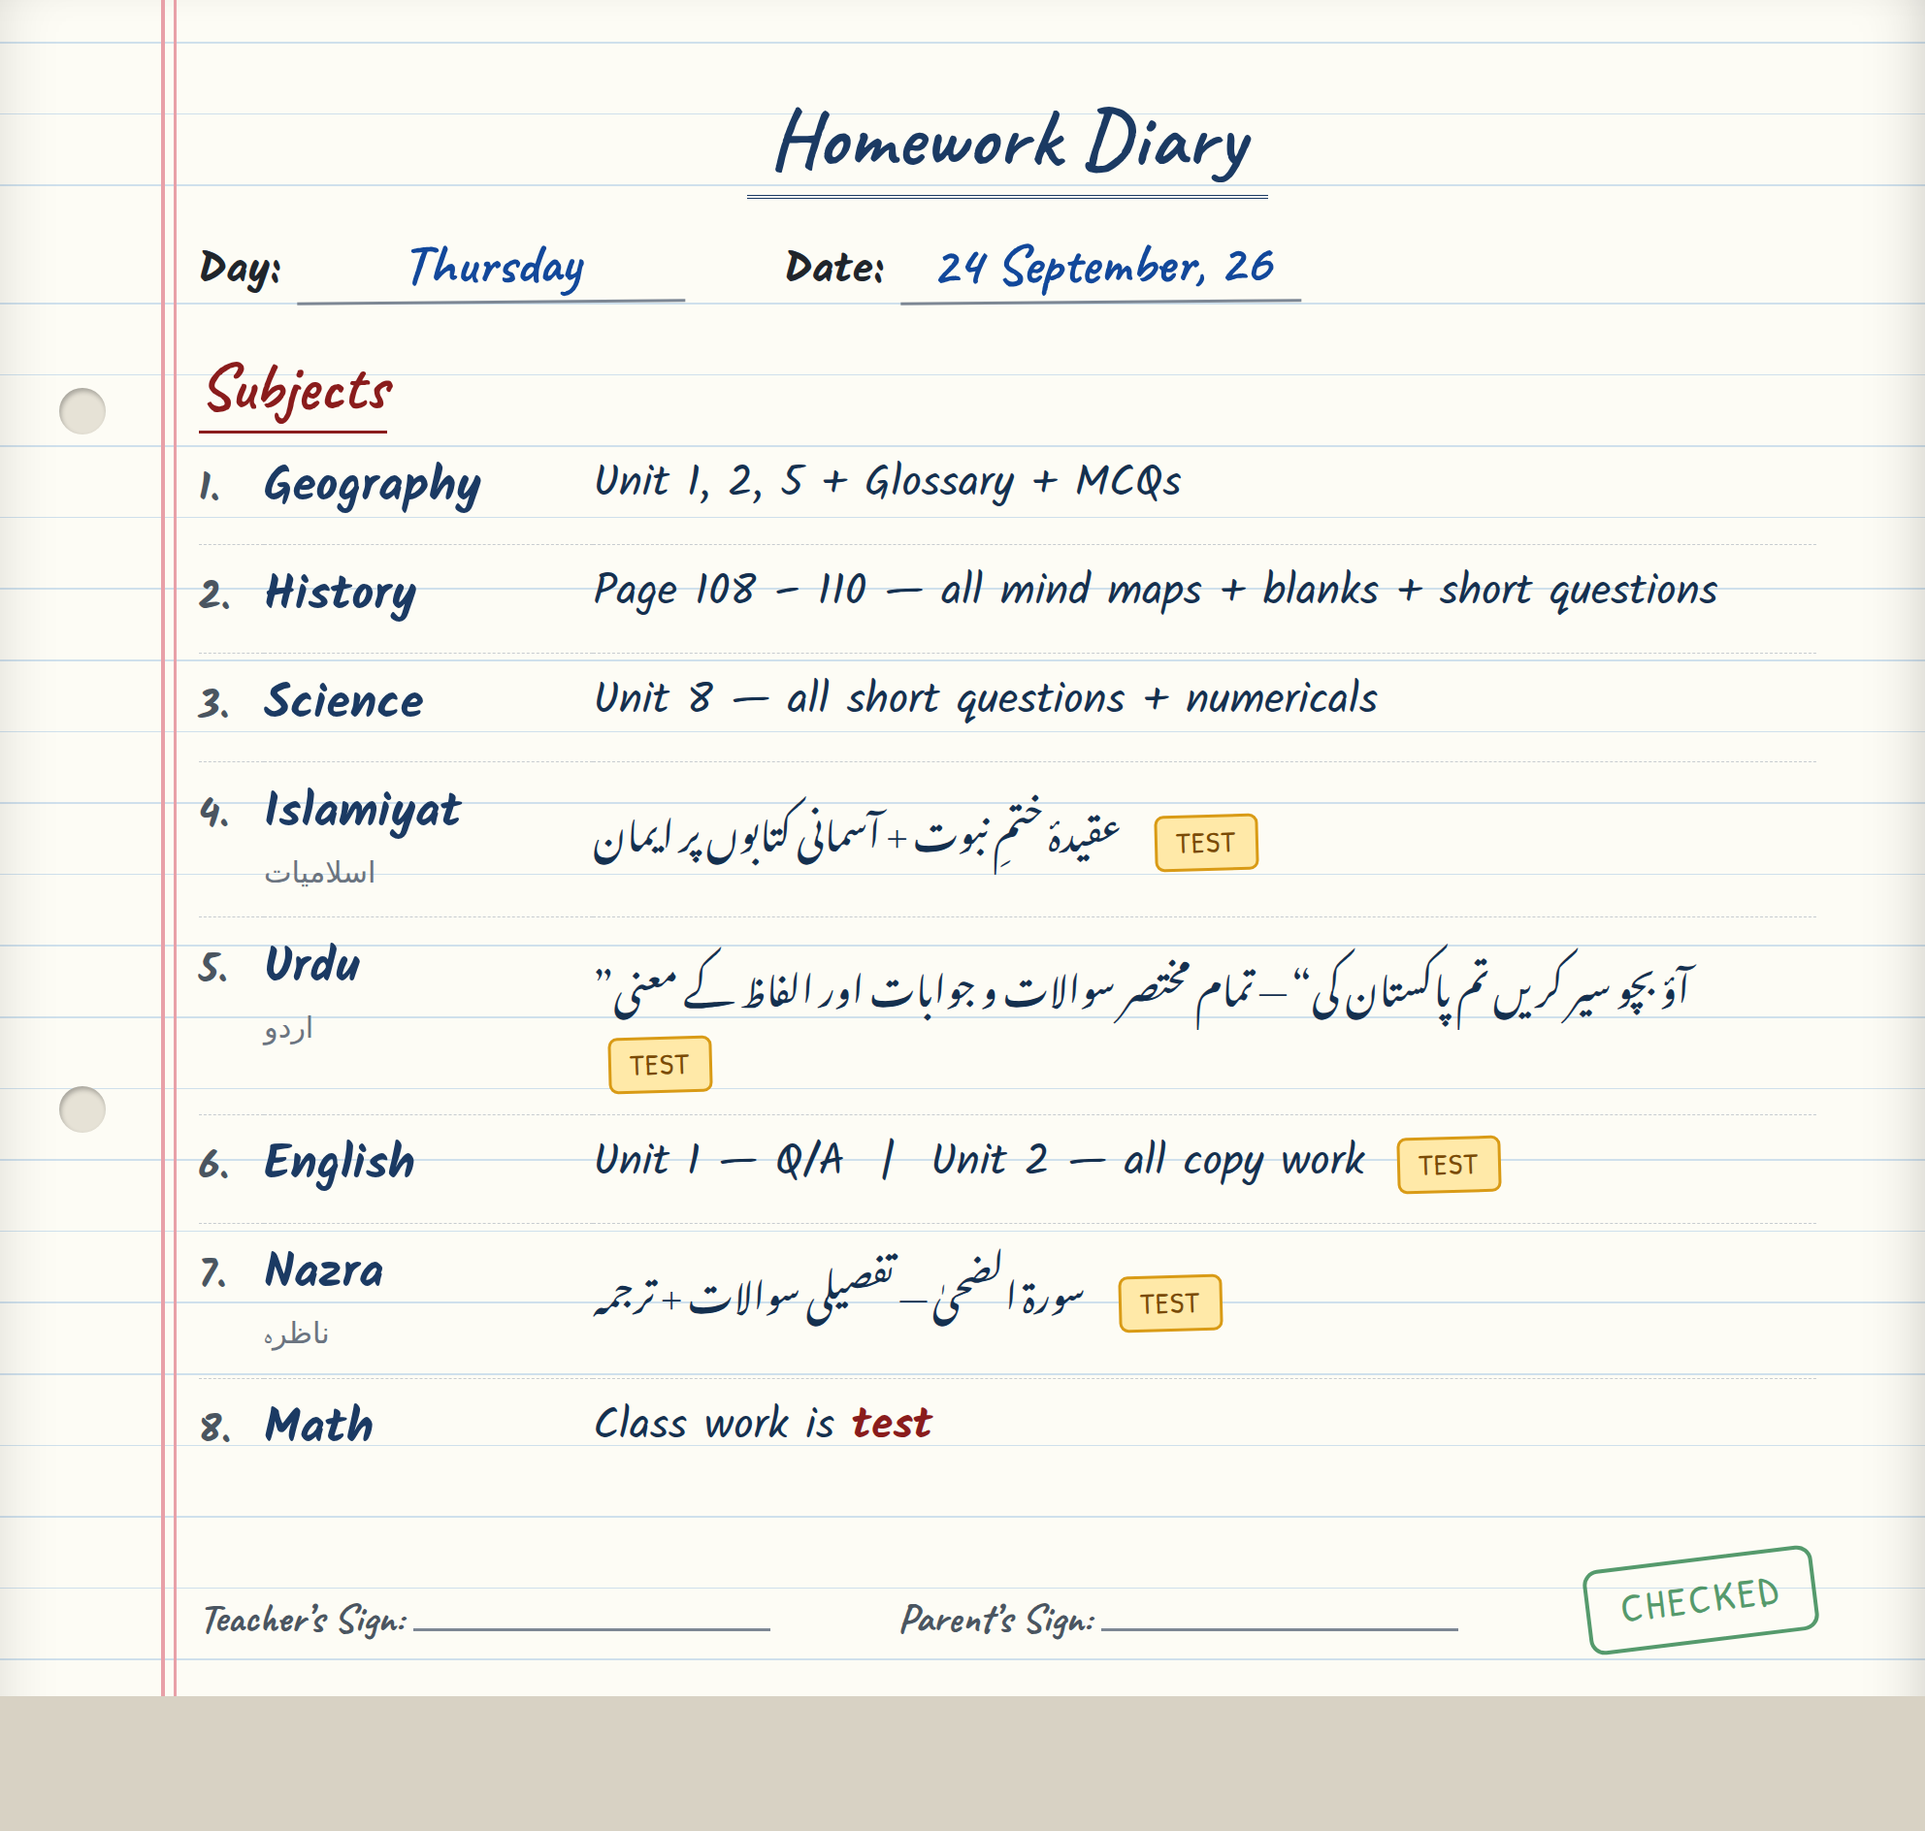
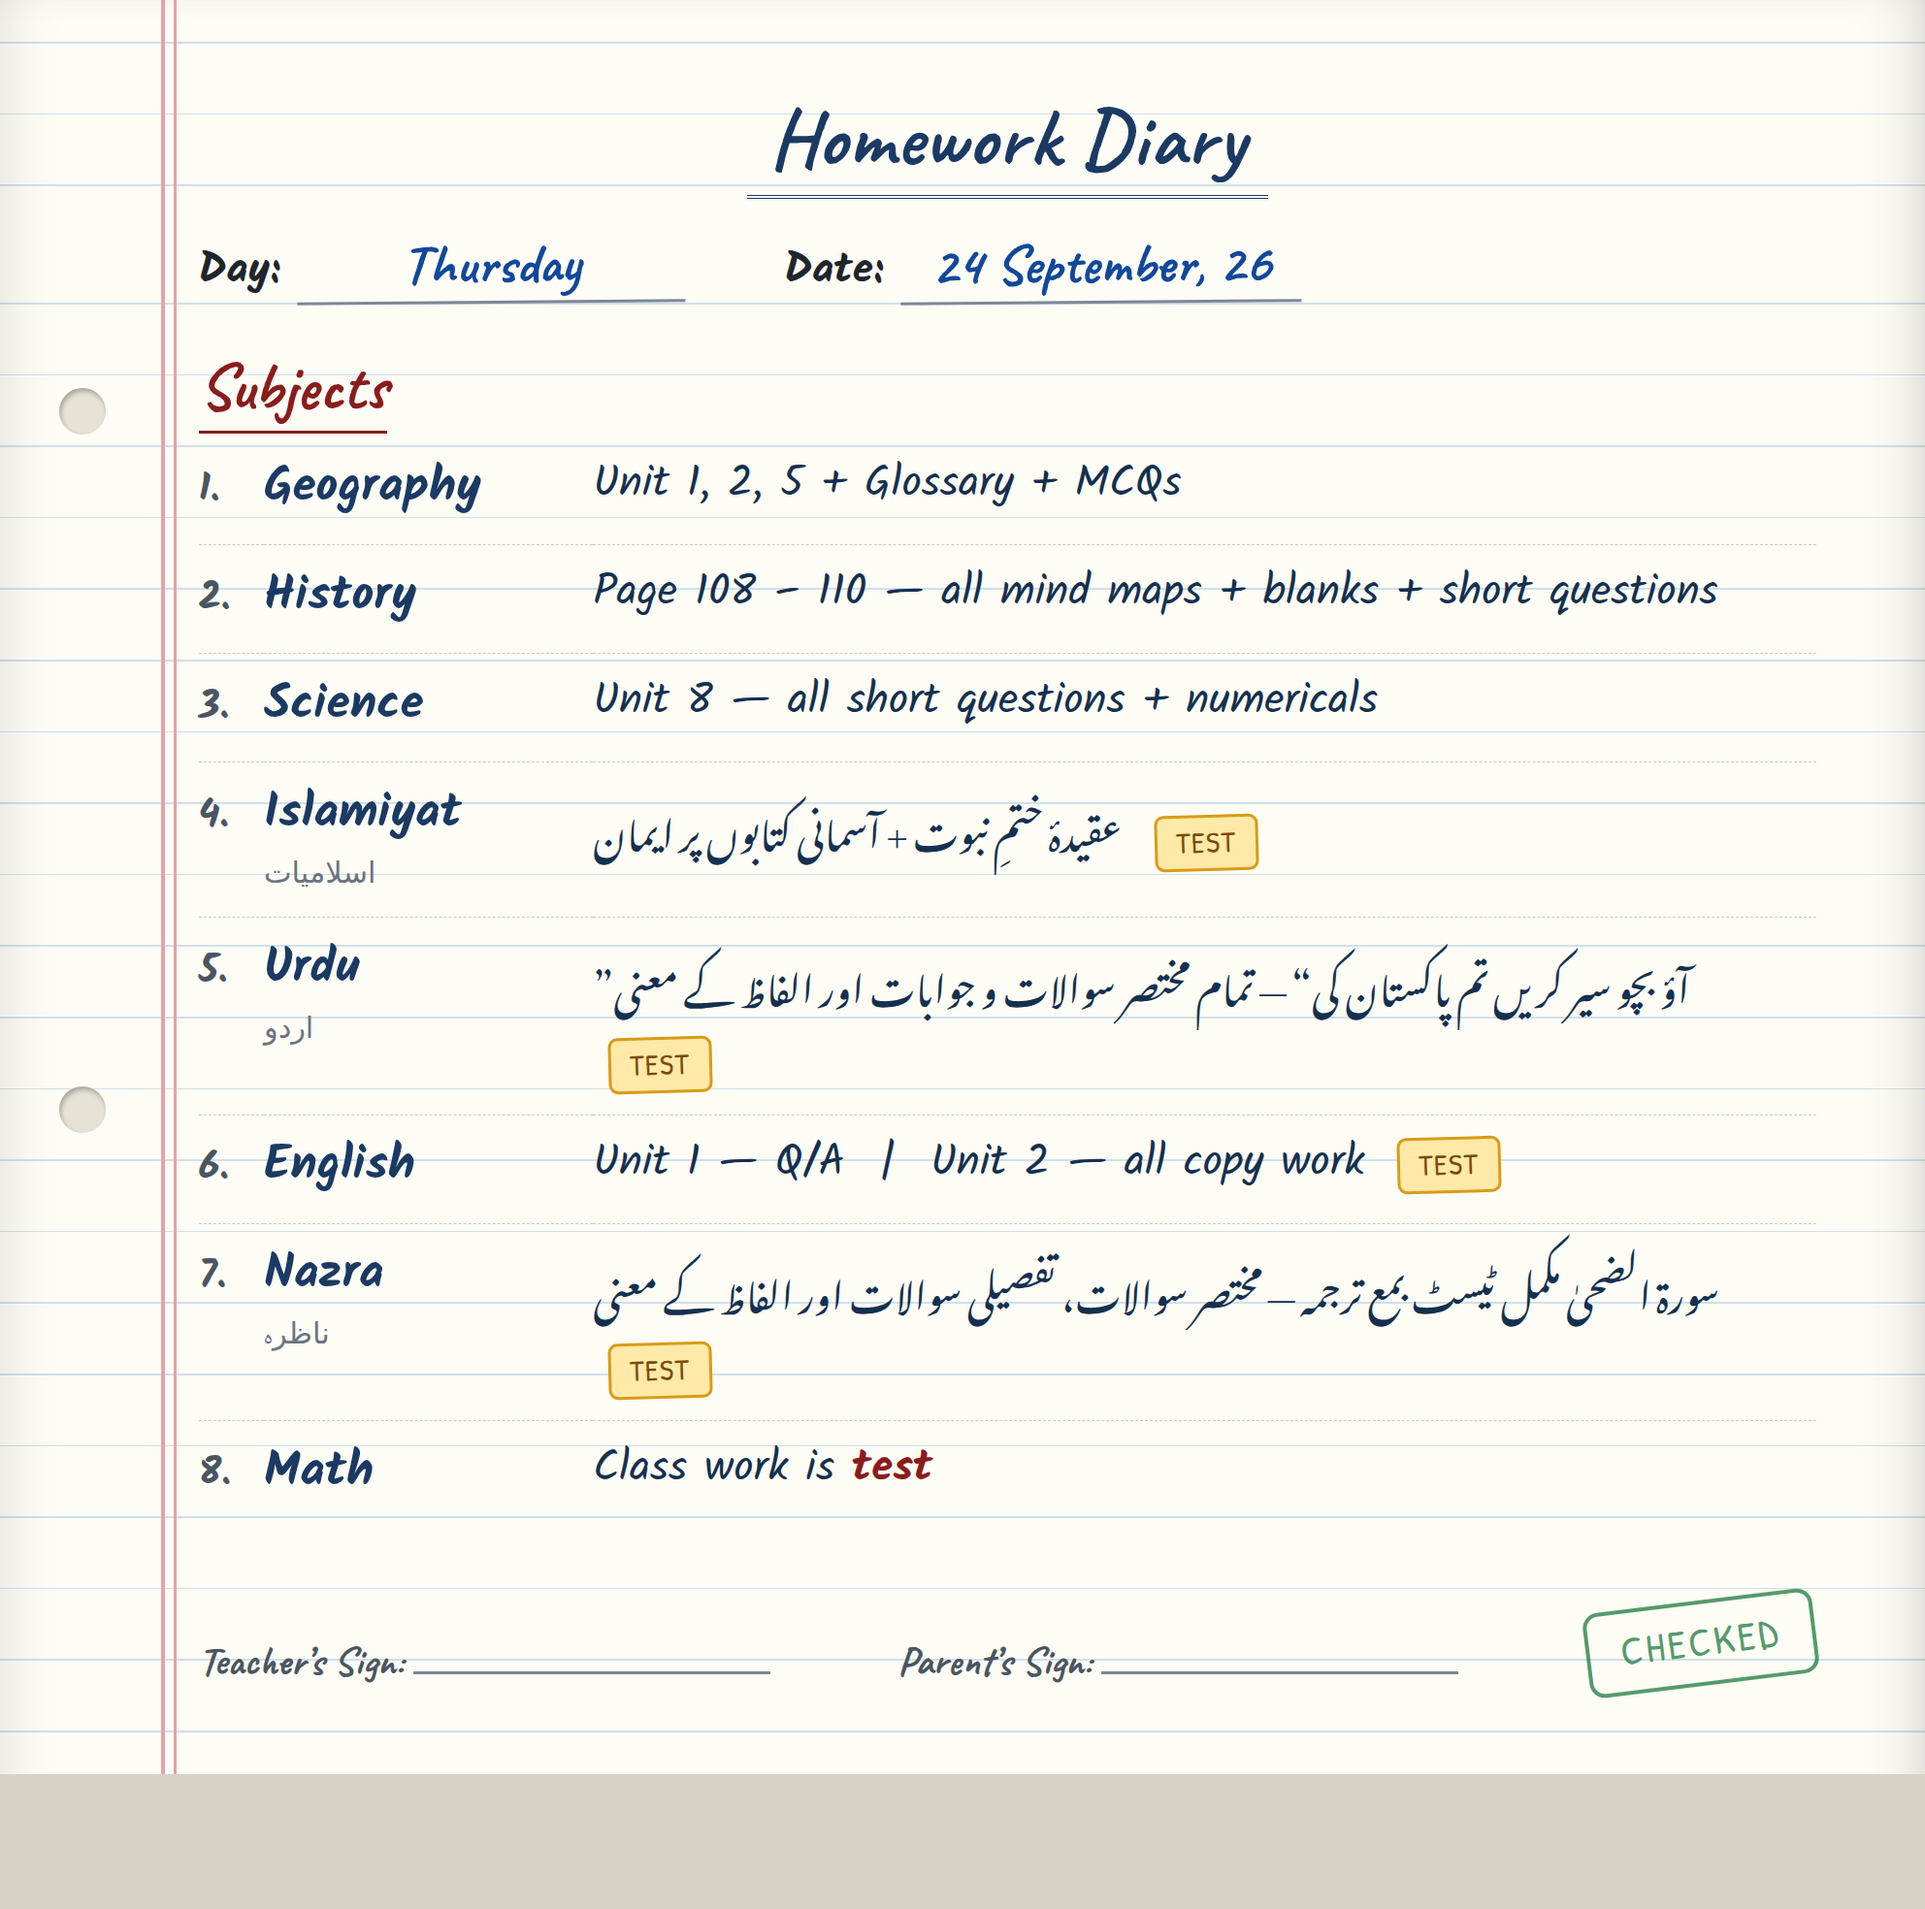
Correct Nazra entry to full test with translation
Matches the corrected diary shared by the class: Surah Az-Zuha is a full
test with translation, covering short questions, long questions and word
meanings.

Claude-Session: https://claude.ai/code/session_012MwDs2Pq4k9B92QEmaxRzU

diff --git a/diary-24-september.html b/diary-24-september.html
@@ -127,7 +127,7 @@
     <tr>
       <td class="num">7.</td><td class="sub">Nazra<em>ناظرہ</em></td>
       <td class="task">
-        <span class="ur">سورۃ الضحیٰ &mdash; تفصیلی سوالات + ترجمہ</span>
+        <span class="ur">سورۃ الضحیٰ مکمل ٹیسٹ بمع ترجمہ &mdash; مختصر سوالات، تفصیلی سوالات اور الفاظ کے معنی</span>
         <span class="test">TEST</span>
       </td>
     </tr>
